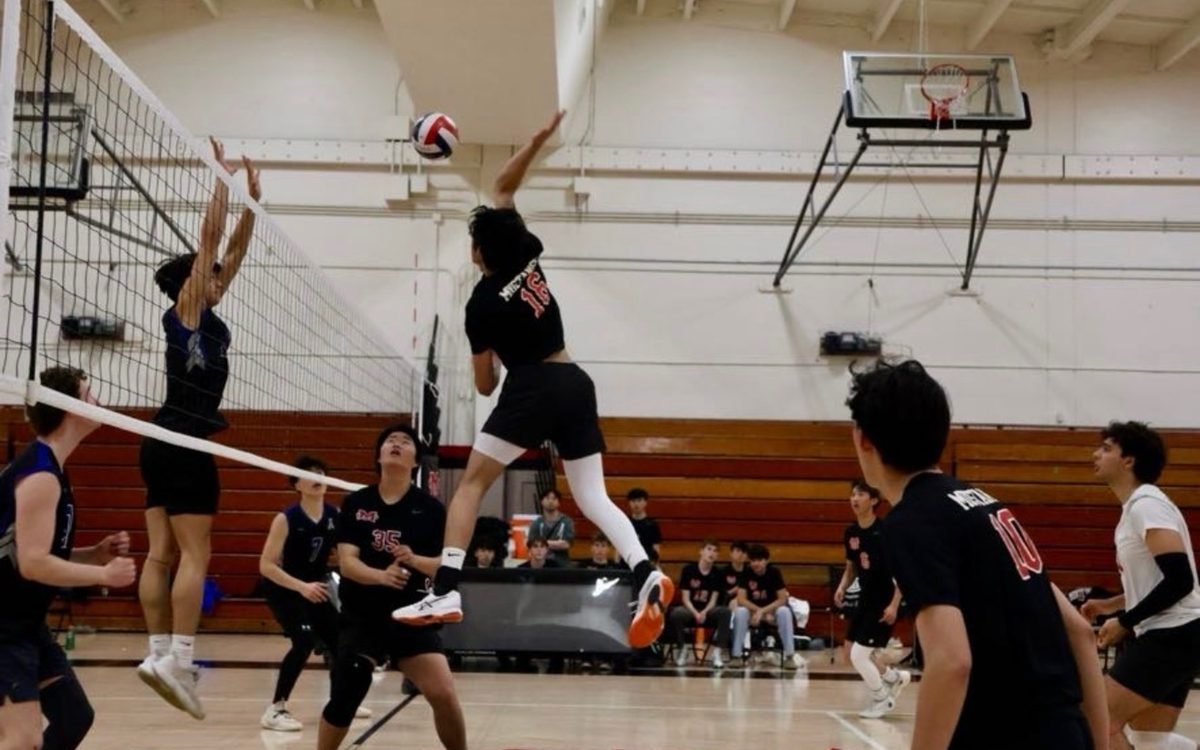
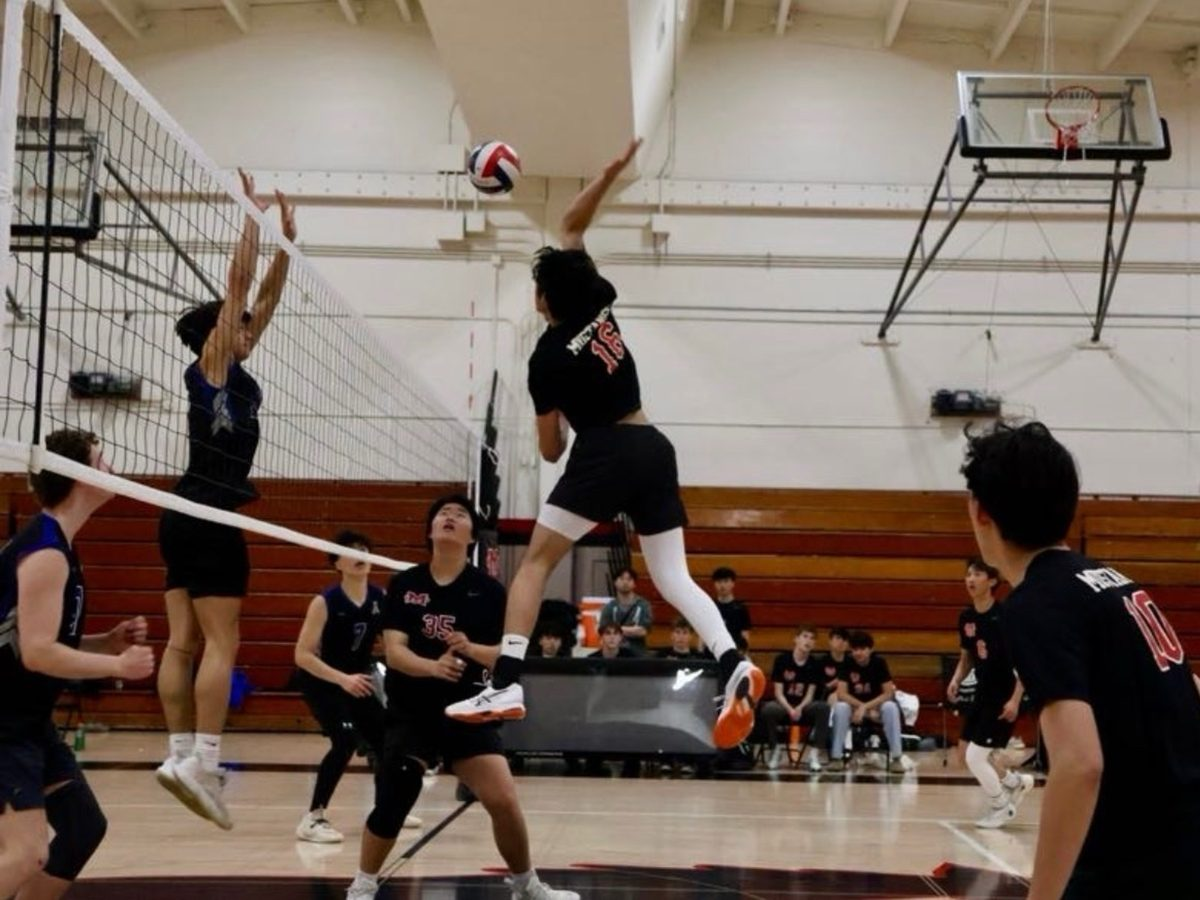
Shrink team photo and enlarge the three gallery photos
Claude-Session: https://claude.ai/code/session_01SEWv7bUpNHeeANohy9ypxj

diff --git a/index.html b/index.html
@@ -46,13 +46,13 @@ h2{color:#ffcf3f;font-size:1.4rem}
 .sched{list-style:none;padding:0;display:grid;grid-template-columns:repeat(auto-fill,minmax(250px,1fr));gap:10px}
 .sched li{display:flex;gap:12px;background:#050505;border:2px solid #333;border-radius:8px;padding:12px}.sched li.home{border-color:#C8102E}
 .sched-date{font-family:Orbitron;color:#ffcf3f;text-align:center;min-width:50px}.sched-date span{display:block;font-size:.7rem}.sched-date b{font-size:1.5rem}.sched-info{display:flex;flex-direction:column}.sched-info span{font-size:.8rem;opacity:.6}
-.gallery{display:grid;grid-template-columns:repeat(3,1fr);gap:10px}.gallery figure{border:4px solid #333;border-radius:6px;overflow:hidden}.gallery img{aspect-ratio:16/10;object-fit:cover}.gallery figcaption{font-family:Orbitron;font-size:.65rem;padding:6px;background:#050505}.gallery .featured{grid-column:1/-1}.gallery .featured img{aspect-ratio:3/2;object-position:center 55%}
+.gallery{display:grid;grid-template-columns:repeat(3,1fr);gap:10px}.gallery figure{border:4px solid #333;border-radius:6px;overflow:hidden}.gallery img{aspect-ratio:4/3;object-fit:cover}.gallery figcaption{font-family:Orbitron;font-size:.65rem;padding:6px;background:#050505}.gallery .featured{grid-column:1/-1;justify-self:center;width:66%}.gallery .featured img{aspect-ratio:3/2;object-position:center 55%}
 .tiers{display:grid;grid-template-columns:repeat(auto-fit,minmax(200px,1fr));gap:10px;margin-bottom:20px}.tiers-card{background:#222;border-radius:8px;padding:14px;border-top:4px solid #ffcf3f}.tiers-amt{font-family:Orbitron;color:#ff2a44}.tiers-card p{font-size:.85rem;opacity:.8}
 .sponsors{display:grid;grid-template-columns:repeat(auto-fit,minmax(160px,1fr));gap:8px}.sponsors img{border-radius:6px}
 .footer{display:flex;gap:16px;max-width:1100px;margin:auto;padding:24px 16px;align-items:center;border-top:2px solid #333}.footer p{margin:.2em 0}
 .fund-error{text-align:center;color:#ffcf3f;font-size:.85rem}
 .wall{list-style:none;padding:0;display:grid;grid-template-columns:repeat(auto-fill,minmax(180px,1fr));gap:8px}.wall li{background:#222;border-left:4px solid #C8102E;border-radius:6px;padding:10px 12px;display:flex;justify-content:space-between;gap:8px}.wall-amt{font-family:Orbitron;color:#ffcf3f;font-size:.85rem}
-@media(max-width:760px){.donate{grid-template-columns:1fr}.gallery{grid-template-columns:1fr}.score{grid-template-columns:1fr}.vs{display:none}}
+@media(max-width:760px){.donate{grid-template-columns:1fr}.gallery{grid-template-columns:1fr}.gallery .featured{width:auto}.score{grid-template-columns:1fr}.vs{display:none}}
 </style>
 </head>
 <body>

diff --git a/tools/build_site.py b/tools/build_site.py
@@ -32,13 +32,13 @@ h2{color:#ffcf3f;font-size:1.4rem}
 .sched{list-style:none;padding:0;display:grid;grid-template-columns:repeat(auto-fill,minmax(250px,1fr));gap:10px}
 .sched li{display:flex;gap:12px;background:#050505;border:2px solid #333;border-radius:8px;padding:12px}.sched li.home{border-color:#C8102E}
 .sched-date{font-family:Orbitron;color:#ffcf3f;text-align:center;min-width:50px}.sched-date span{display:block;font-size:.7rem}.sched-date b{font-size:1.5rem}.sched-info{display:flex;flex-direction:column}.sched-info span{font-size:.8rem;opacity:.6}
-.gallery{display:grid;grid-template-columns:repeat(3,1fr);gap:10px}.gallery figure{border:4px solid #333;border-radius:6px;overflow:hidden}.gallery img{aspect-ratio:16/10;object-fit:cover}.gallery figcaption{font-family:Orbitron;font-size:.65rem;padding:6px;background:#050505}.gallery .featured{grid-column:1/-1}.gallery .featured img{aspect-ratio:3/2;object-position:center 55%}
+.gallery{display:grid;grid-template-columns:repeat(3,1fr);gap:10px}.gallery figure{border:4px solid #333;border-radius:6px;overflow:hidden}.gallery img{aspect-ratio:4/3;object-fit:cover}.gallery figcaption{font-family:Orbitron;font-size:.65rem;padding:6px;background:#050505}.gallery .featured{grid-column:1/-1;justify-self:center;width:66%}.gallery .featured img{aspect-ratio:3/2;object-position:center 55%}
 .tiers{display:grid;grid-template-columns:repeat(auto-fit,minmax(200px,1fr));gap:10px;margin-bottom:20px}.tiers-card{background:#222;border-radius:8px;padding:14px;border-top:4px solid #ffcf3f}.tiers-amt{font-family:Orbitron;color:#ff2a44}.tiers-card p{font-size:.85rem;opacity:.8}
 .sponsors{display:grid;grid-template-columns:repeat(auto-fit,minmax(160px,1fr));gap:8px}.sponsors img{border-radius:6px}
 .footer{display:flex;gap:16px;max-width:1100px;margin:auto;padding:24px 16px;align-items:center;border-top:2px solid #333}.footer p{margin:.2em 0}
 .fund-error{text-align:center;color:#ffcf3f;font-size:.85rem}
 .wall{list-style:none;padding:0;display:grid;grid-template-columns:repeat(auto-fill,minmax(180px,1fr));gap:8px}.wall li{background:#222;border-left:4px solid #C8102E;border-radius:6px;padding:10px 12px;display:flex;justify-content:space-between;gap:8px}.wall-amt{font-family:Orbitron;color:#ffcf3f;font-size:.85rem}
-@media(max-width:760px){.donate{grid-template-columns:1fr}.gallery{grid-template-columns:1fr}.score{grid-template-columns:1fr}.vs{display:none}}
+@media(max-width:760px){.donate{grid-template-columns:1fr}.gallery{grid-template-columns:1fr}.gallery .featured{width:auto}.score{grid-template-columns:1fr}.vs{display:none}}
 """
     body = f"""
 <section class="board" id="donate">
